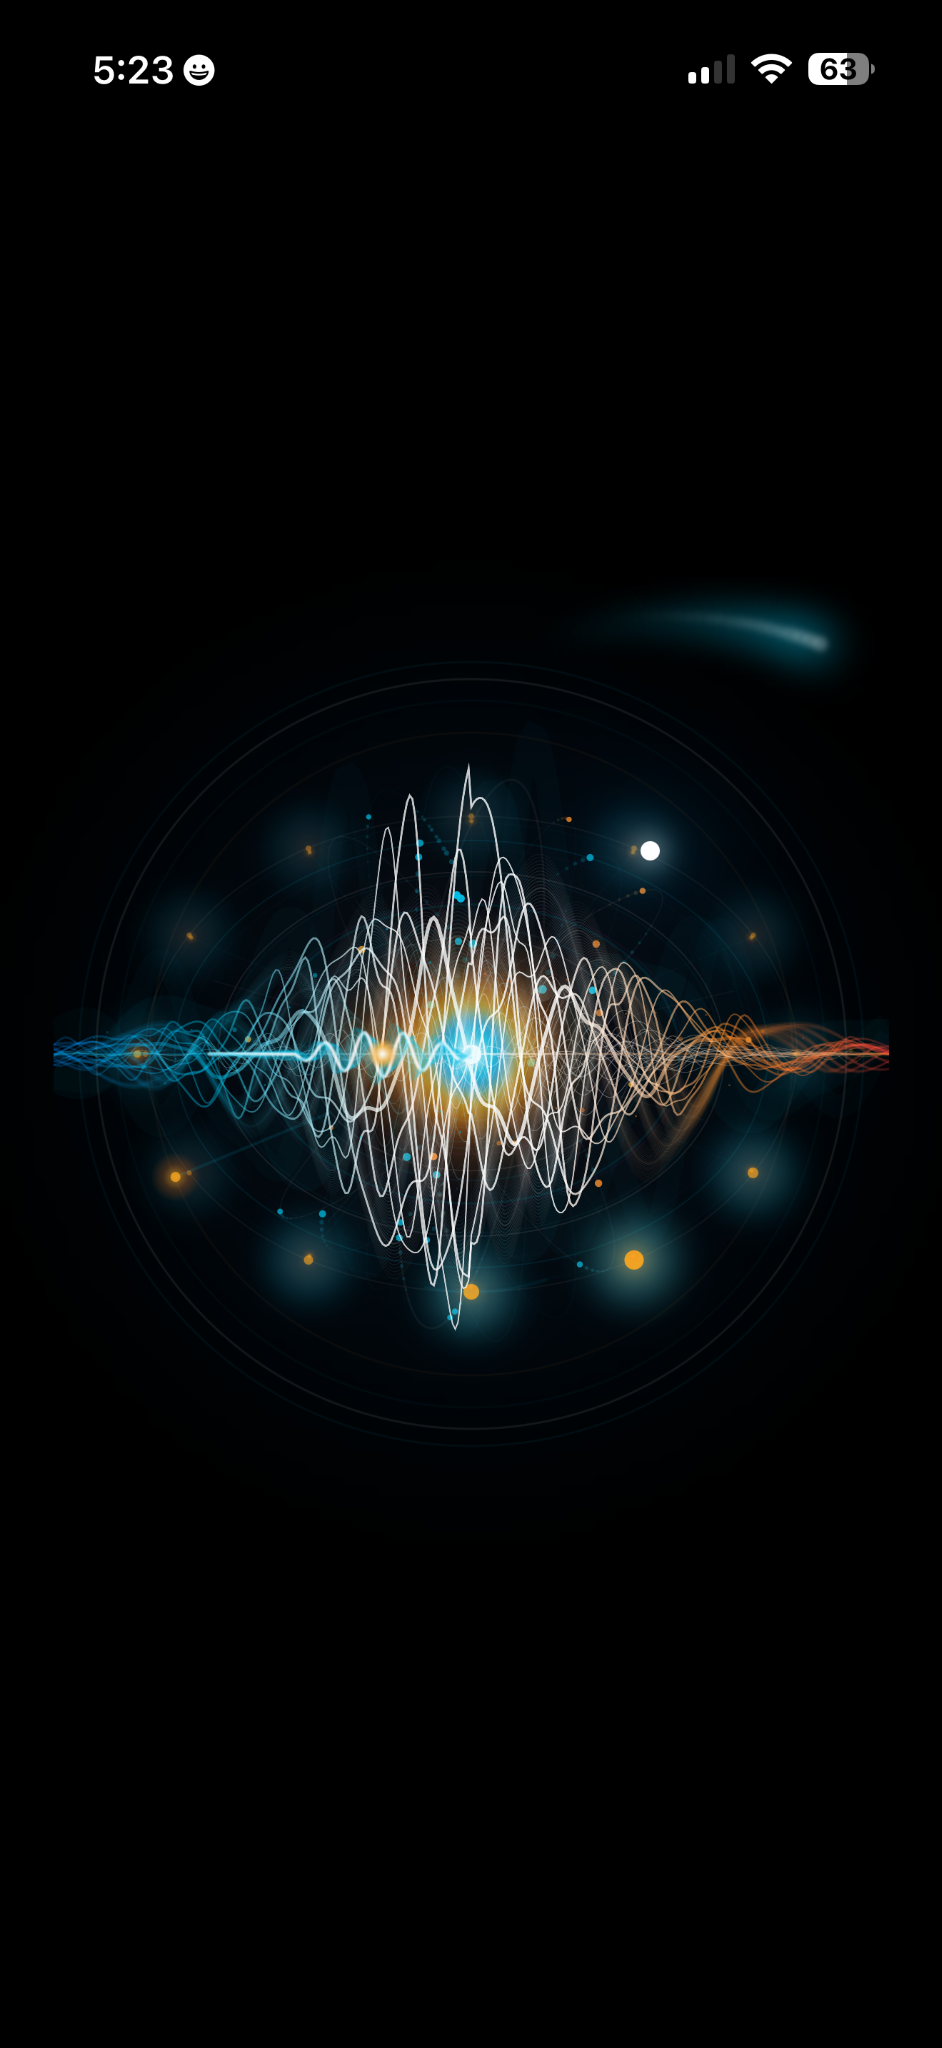
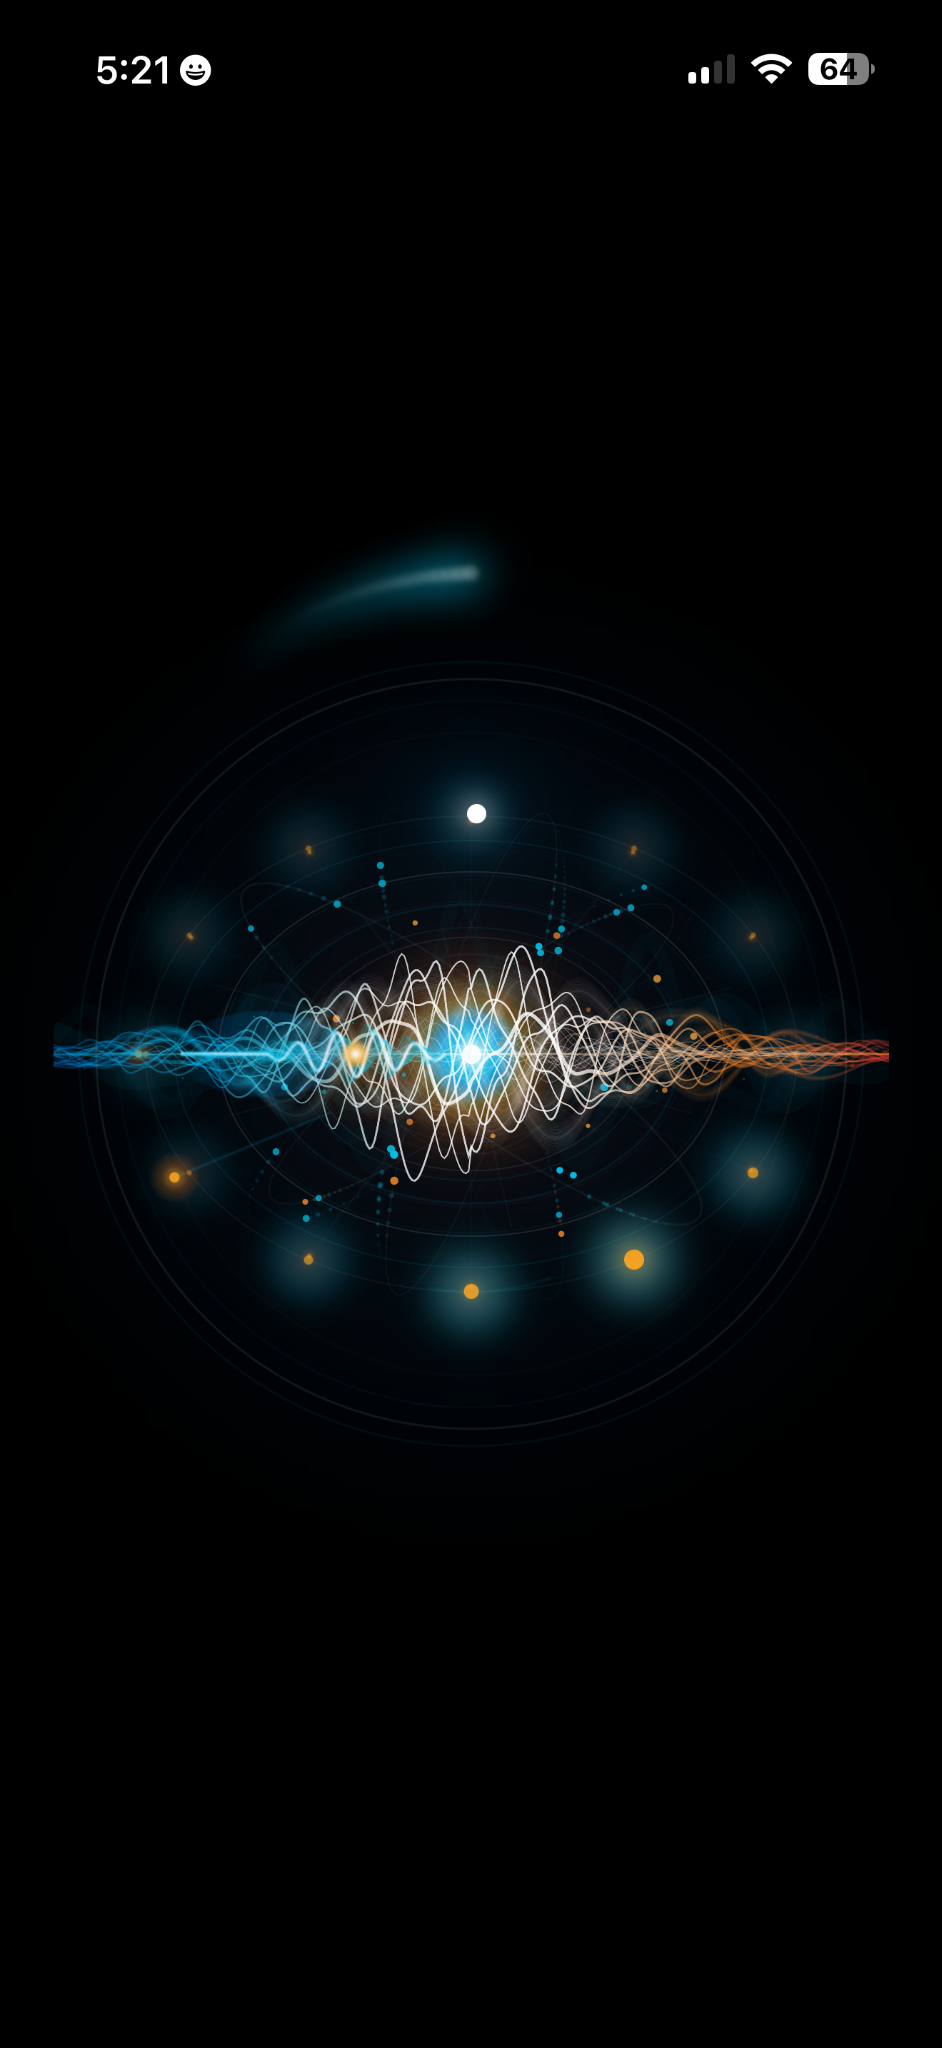
Refine App Store call to action

diff --git a/index.html b/index.html
@@ -303,7 +303,7 @@ footer a:hover{color:var(--fg)}
     <div class="section-label">Coming Soon</div>
     <h2>QuantumClock</h2>
     <p>Coming soon to the App Store.</p>
-    <a class="appstore-link" href="#">&nbsp;&nbsp; App Store</a>
+    <a class="appstore-link" href="#">&nbsp;&nbsp; COMING SOON TO THE APP STORE</a>
   </section>
 
 </main>
